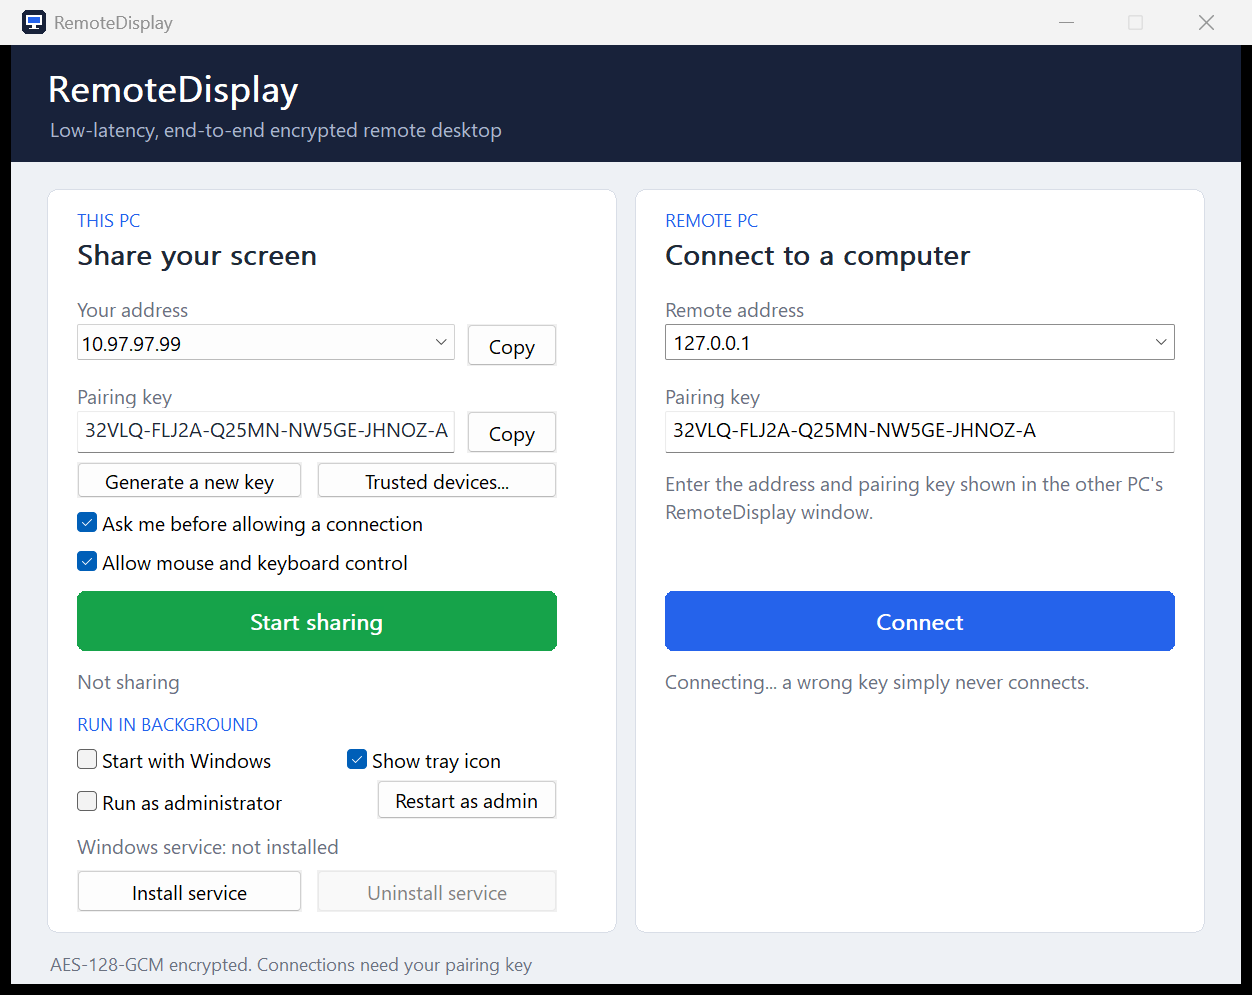
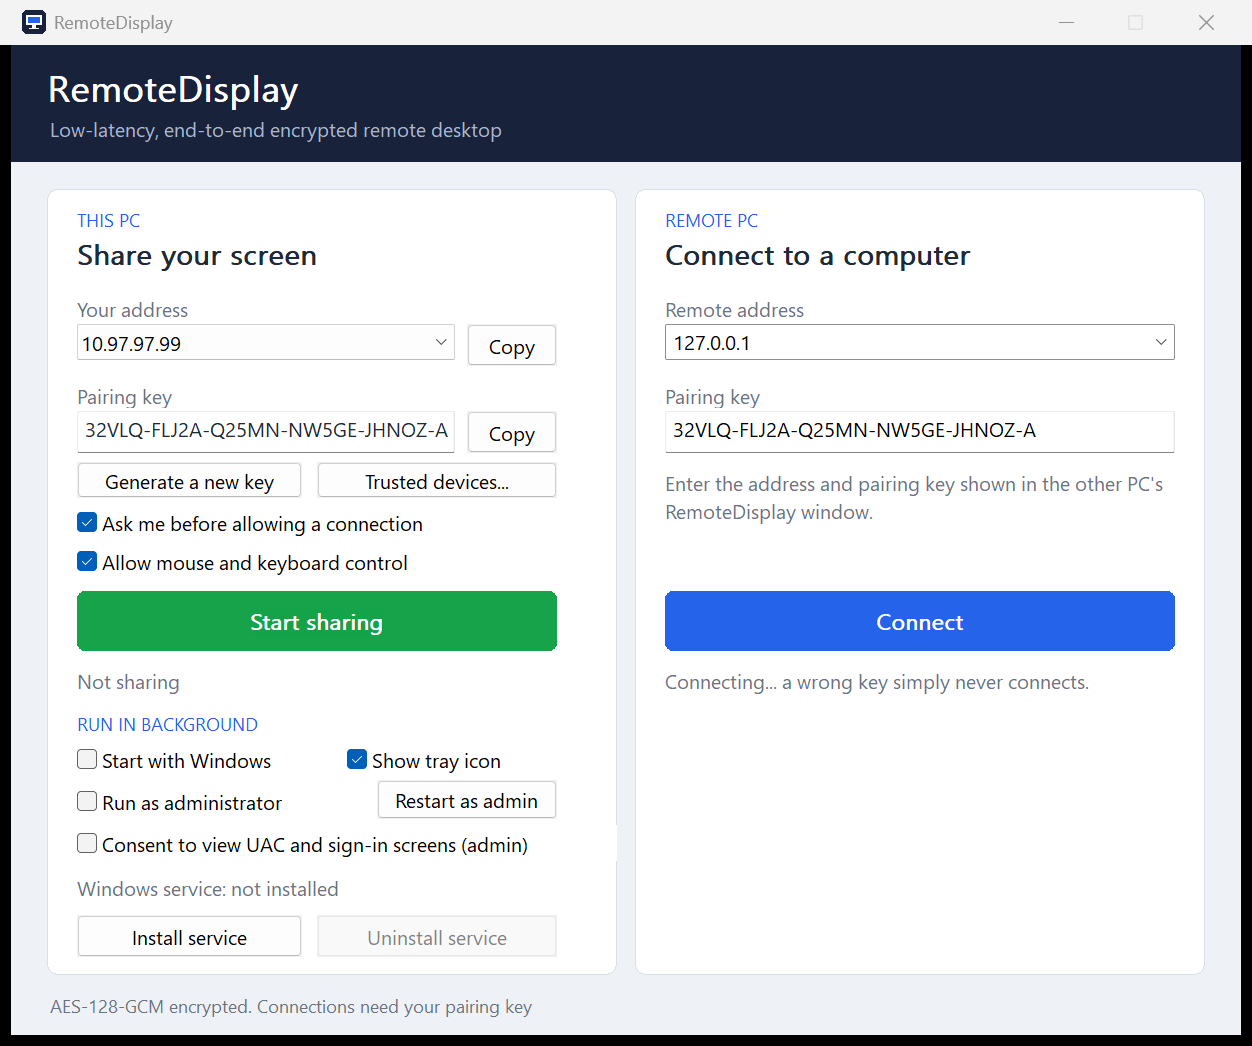
Opt-in secure-desktop consent: policy, detection and audit trail (capture not built yet)
Adds an HKLM consent flag changeable only through an administrator prompt, detection of the
Default vs Winlogon input desktop, and an append-only audit log of each switch. The worker records
secure-desktop entry/exit with the policy state. Capturing the UAC prompt and sign-in screen still
needs a SYSTEM-level helper, which is not built; the checkbox is labelled WIP to say so.
test-admin covers the policy guard, desktop name, and audit lines.

diff --git a/app/main.cpp b/app/main.cpp
@@ -15,6 +15,7 @@
 #include <vector>
 
 #include "admin.h"
+#include "secure.h"
 #include "common.h"
 #include "host.h"
 #include "service.h"
@@ -38,9 +39,9 @@ enum Ctl {
     IDC_IPS = 100, IDC_COPY_IP, IDC_KEY, IDC_COPY_KEY, IDC_NEW_KEY, IDC_APPROVE, IDC_SHARE, IDC_STATUS,
     IDC_DISCONNECT, IDC_REMOTE, IDC_REMOTE_KEY, IDC_CONNECT, IDC_MSG, IDC_HINT,
     IDC_LBL_ADDR, IDC_LBL_KEY, IDC_LBL_RADDR, IDC_LBL_RKEY, IDC_TITLE_L, IDC_TITLE_R,
-    IDC_SVC_TITLE, IDC_SVC_STATUS, IDC_SVC_BTN, IDC_SVC_HINT, IDC_CONTROL, IDC_AUTOSTART, IDC_SHOWTRAY, IDC_TRUSTED, IDC_ADMIN, IDC_ADMIN_STATE, IDC_SVC_REMOVE,
+    IDC_SVC_TITLE, IDC_SVC_STATUS, IDC_SVC_BTN, IDC_SVC_HINT, IDC_CONTROL, IDC_AUTOSTART, IDC_SHOWTRAY, IDC_TRUSTED, IDC_ADMIN, IDC_ADMIN_STATE, IDC_SVC_REMOVE, IDC_SECURE,
 };
-enum class Elev { SvcInstall, SvcUninstall, AdminOn, AdminOff, TaskOn, TaskOff };
+enum class Elev { SvcInstall, SvcUninstall, AdminOn, AdminOff, TaskOn, TaskOff, SecureOn, SecureOff };
 enum TrayCmd { IDM_OPEN = 2001, IDM_TOGGLE, IDM_DISCONNECT, IDM_EXIT };
 constexpr UINT kMsgViewerClosed = WM_APP + 10, kMsgSvcDone = WM_APP + 11, kMsgTray = WM_APP + 20,
                kMsgShow = WM_APP + 21;
@@ -124,7 +125,7 @@ public:
         app.background_ = background;
         app.autoShare_ = autoShare;
         app.dpi_ = GetDeviceCaps(GetDC(nullptr), LOGPIXELSX);
-        RECT rc = {0, 0, app.S(820), app.S(626)};
+        RECT rc = {0, 0, app.S(820), app.S(660)};
         AdjustWindowRect(&rc, WS_OVERLAPPED | WS_CAPTION | WS_SYSMENU | WS_MINIMIZEBOX, FALSE);
         HWND h = CreateWindowW(L"RemoteDisplayApp", L"RemoteDisplay",
                                WS_OVERLAPPED | WS_CAPTION | WS_SYSMENU | WS_MINIMIZEBOX | WS_CLIPCHILDREN,
@@ -207,9 +208,10 @@ private:
         Add(L"BUTTON", L"Show tray icon", BS_AUTOCHECKBOX | WS_TABSTOP, 224, 464, 140, 24, IDC_SHOWTRAY);
         Add(L"BUTTON", L"Run as administrator", BS_AUTOCHECKBOX | WS_TABSTOP, 44, 492, 190, 24, IDC_ADMIN);
         Add(L"BUTTON", L"Restart as admin", BS_PUSHBUTTON | WS_TABSTOP, 244, 490, 120, 26, IDC_ADMIN_STATE);
-        Add(L"STATIC", L"", SS_LEFT | SS_ENDELLIPSIS, 44, 524, 320, 22, IDC_SVC_STATUS);
-        Add(L"BUTTON", L"Install service", BS_PUSHBUTTON | WS_TABSTOP, 44, 550, 150, 28, IDC_SVC_BTN);
-        Add(L"BUTTON", L"Uninstall service", BS_PUSHBUTTON | WS_TABSTOP, 204, 550, 160, 28, IDC_SVC_REMOVE);
+        Add(L"STATIC", L"", SS_LEFT | SS_ENDELLIPSIS, 44, 552, 320, 22, IDC_SVC_STATUS);
+        Add(L"BUTTON", L"Install service", BS_PUSHBUTTON | WS_TABSTOP, 44, 580, 150, 28, IDC_SVC_BTN);
+        Add(L"BUTTON", L"Uninstall service", BS_PUSHBUTTON | WS_TABSTOP, 204, 580, 160, 28, IDC_SVC_REMOVE);
+        Add(L"BUTTON", L"Consent for UAC/sign-in viewing (admin, WIP)", BS_AUTOCHECKBOX | WS_TABSTOP, 44, 520, 360, 24, IDC_SECURE);
 
         // ---- right card: connect
         Add(L"STATIC", L"REMOTE PC", SS_LEFT, 436, 108, 200, 16, IDC_LBL_RADDR + 100);
@@ -242,6 +244,7 @@ private:
         adminPref_ = cfg_->AdminMode();
         CheckDlgButton(hwnd_, IDC_AUTOSTART, IsAutostartEnabled() ? BST_CHECKED : BST_UNCHECKED);
         CheckDlgButton(hwnd_, IDC_ADMIN, adminPref_ ? BST_CHECKED : BST_UNCHECKED);
+        CheckDlgButton(hwnd_, IDC_SECURE, SecureDesktopAllowed() ? BST_CHECKED : BST_UNCHECKED);
         if (IsElevated()) SetWindowTextW(hwnd_, L"RemoteDisplay (Administrator)");
         UpdateAdminUi();
         taskbarCreated_ = RegisterWindowMessageW(L"TaskbarCreated");  // Explorer restarted: re-add the icon
@@ -391,6 +394,7 @@ private:
         SetText(IDC_SVC_STATUS, L"Waiting for administrator approval...");
         EnableWindow(Ctrl(IDC_SVC_BTN), FALSE);
         EnableWindow(Ctrl(IDC_SVC_REMOVE), FALSE);
+        EnableWindow(Ctrl(IDC_SECURE), FALSE);
         svcThread_ = std::thread([this, args] {
             const int rc = RunElevated(hwnd_, args);
             PostMessage(hwnd_, kMsgSvcDone, WPARAM(rc), 0);
@@ -467,6 +471,18 @@ private:
                     CheckDlgButton(hwnd_, IDC_AUTOSTART, BST_UNCHECKED);
                     fail();
                 }
+                break;
+            case Elev::SecureOn:
+                if (ok) {
+                    Message(L"Consent recorded. Every use of the UAC / sign-in screen is written to the audit log.", kGreen);
+                } else {
+                    CheckDlgButton(hwnd_, IDC_SECURE, BST_UNCHECKED);
+                    fail();
+                }
+                break;
+            case Elev::SecureOff:
+                if (ok) Message(L"Consent withdrawn.", kMuted);
+                else { CheckDlgButton(hwnd_, IDC_SECURE, BST_CHECKED); fail(); }
                 break;
             case Elev::TaskOff:
                 if (ok) Message(L"Will no longer start with Windows.", kMuted);
@@ -563,6 +579,7 @@ private:
             const bool installed = svcState_ != SvcState::NotInstalled;
             EnableWindow(Ctrl(IDC_SVC_BTN), !installed);
             EnableWindow(Ctrl(IDC_SVC_REMOVE), installed);
+            EnableWindow(Ctrl(IDC_SECURE), !svcBusy_);
         }
     }
 
@@ -755,14 +772,14 @@ private:
         HBRUSH card = CreateSolidBrush(kCard);
         SelectObject(mem, pen);
         SelectObject(mem, card);
-        RoundRect(mem, S(24), S(96), S(404), S(592), S(14), S(14));
-        RoundRect(mem, S(416), S(96), S(796), S(592), S(14), S(14));
+        RoundRect(mem, S(24), S(96), S(404), S(620), S(14), S(14));
+        RoundRect(mem, S(416), S(96), S(796), S(620), S(14), S(14));
         DeleteObject(pen);
         DeleteObject(card);
 
         SetTextColor(mem, kMuted);
         SelectObject(mem, fontSmall_);
-        TextOutW(mem, S(26), S(604), L"AES-128-GCM encrypted. Connections need your pairing key.", 56);
+        TextOutW(mem, S(26), S(632), L"AES-128-GCM encrypted. Connections need your pairing key.", 56);
 
         BitBlt(dc, 0, 0, cr.right, cr.bottom, mem, 0, 0, SRCCOPY);
         SelectObject(mem, old);
@@ -930,6 +947,15 @@ private:
                         const bool autostart = IsDlgButtonChecked(h, IDC_AUTOSTART) == BST_CHECKED;
                         const wchar_t* verbs = on ? (autostart ? L"worker-on,task-on" : L"worker-on") : L"worker-off,task-off";
                         ElevatedAction(std::wstring(L"--admin-ctl ") + verbs + UserArg(), on ? Elev::AdminOn : Elev::AdminOff);
+                        break;
+                    }
+                    case IDC_SECURE: {
+                        // Changing the consent needs administrator rights (UAC), so a connected viewer cannot
+                        // switch it on. Declining the prompt puts the checkbox back.
+                        const bool on = IsDlgButtonChecked(h, IDC_SECURE) == BST_CHECKED;
+                        if (svcBusy_) { CheckDlgButton(h, IDC_SECURE, on ? BST_UNCHECKED : BST_CHECKED); break; }
+                        ElevatedAction(std::wstring(L"--admin-ctl ") + (on ? L"secure-on" : L"secure-off") + UserArg(),
+                                       on ? Elev::SecureOn : Elev::SecureOff);
                         break;
                     }
                     case IDC_ADMIN_STATE:

diff --git a/app/secure.h b/app/secure.h
@@ -1,0 +1,74 @@
+#pragma once
+// Secure desktop support, opt-in only.
+//
+// Windows draws the UAC consent prompt and the sign-in screen on a separate "secure desktop" (the
+// Winlogon desktop). An ordinary process cannot read it, so while it is shown the viewer sees a
+// frozen picture. This module does three things:
+//  1. the machine-wide opt-in flag (HKLM, changeable only by an administrator, so a connected viewer
+//     cannot switch it on),
+//  2. detects when the input desktop is the secure one,
+//  3. writes an audit trail of every time it happens.
+// Capturing the secure desktop itself needs a SYSTEM-level helper; see docs/ARCHITECTURE.md.
+#include <windows.h>
+
+#include <string>
+
+#include "common.h"
+#include "ipc_security.h"
+
+namespace rdapp {
+
+constexpr wchar_t kSecureValue[] = L"AllowSecureDesktop";
+
+// True only if an administrator turned the feature on for this PC.
+inline bool SecureDesktopAllowed() {
+    DWORD v = 0, size = sizeof(v);
+    return RegGetValueW(HKEY_LOCAL_MACHINE, kAdminKey, kSecureValue, RRF_RT_REG_DWORD, nullptr, &v, &size) == ERROR_SUCCESS && v != 0;
+}
+
+// Needs administrator rights (HKLM). Returns false for normal users.
+inline bool SetSecureDesktopAllowed(bool on) {
+    if (!on) {
+        const LSTATUS r = RegDeleteKeyValueW(HKEY_LOCAL_MACHINE, kAdminKey, kSecureValue);
+        return r == ERROR_SUCCESS || r == ERROR_FILE_NOT_FOUND;
+    }
+    const DWORD v = 1;
+    return RegSetKeyValueW(HKEY_LOCAL_MACHINE, kAdminKey, kSecureValue, REG_DWORD, &v, sizeof(v)) == ERROR_SUCCESS;
+}
+
+// Name of the desktop that currently receives input: "Default" for the user's desktop, "Winlogon" for
+// the UAC prompt and sign-in screen. Empty if it cannot be read (e.g. in a service or locked session).
+inline std::wstring InputDesktopName() {
+    HDESK d = OpenInputDesktop(0, FALSE, DESKTOP_READOBJECTS);
+    if (!d) return L"";
+    wchar_t name[256] = {};
+    DWORD need = 0;
+    std::wstring out;
+    if (GetUserObjectInformationW(d, UOI_NAME, name, sizeof(name), &need)) out = name;
+    CloseDesktop(d);
+    return out;
+}
+
+inline bool OnSecureDesktop() {
+    const std::wstring n = InputDesktopName();
+    return !n.empty() && _wcsicmp(n.c_str(), L"Default") != 0;
+}
+
+// Append-only audit trail: one line per event, with time, Windows user and process. Lives in
+// %ProgramData%, which normal users cannot rewrite, so a connected viewer cannot erase it.
+inline std::wstring AuditLogPath() {
+    wchar_t pd[MAX_PATH] = {};
+    GetEnvironmentVariableW(L"ProgramData", pd, MAX_PATH);
+    std::wstring dir = std::wstring(pd) + L"\\RemoteDisplay";
+    CreateDirectoryW(dir.c_str(), nullptr);
+    return dir + L"\\audit.log";
+}
+
+inline void Audit(const char* event, const std::string& detail) {
+    wchar_t user[256] = {};
+    DWORD n = DWORD(std::size(user));
+    GetUserNameW(user, &n);
+    Log(AuditLogPath(), "AUDIT %s user=%ls pid=%lu %s", event, user, GetCurrentProcessId(), detail.c_str());
+}
+
+}  // namespace rdapp

diff --git a/tests/test_admin.cpp b/tests/test_admin.cpp
@@ -93,6 +93,33 @@ int main() {
         CHECK(!TaskExists(), "the real 'RemoteDisplay' task was not touched");
     }
 
+    // ---- secure desktop: detection, opt-in guard, audit trail ----
+    {
+        const std::wstring desk = InputDesktopName();
+        wprintf(L"     input desktop: %ls\n", desk.c_str());
+        CHECK(!desk.empty(), "the input desktop name can be read");
+        if (!IsElevated() && !SecureDesktopAllowed()) {
+            CHECK(!SetSecureDesktopAllowed(true), "normal rights cannot turn secure-desktop consent on");
+            CHECK(!SecureDesktopAllowed(), "and consent is still off");
+        }
+        const std::wstring logPath = AuditLogPath();
+        DeleteFileW(logPath.c_str());
+        Audit("test-event", "marker=unit-test");
+        std::string text;
+        HANDLE f = CreateFileW(logPath.c_str(), GENERIC_READ, FILE_SHARE_READ | FILE_SHARE_WRITE, nullptr, OPEN_EXISTING, 0, nullptr);
+        if (f != INVALID_HANDLE_VALUE) {
+            char buf[2048];
+            DWORD n = 0;
+            while (ReadFile(f, buf, sizeof(buf), &n, nullptr) && n) text.append(buf, n);
+            CloseHandle(f);
+        }
+        CHECK(text.find("AUDIT test-event") != std::string::npos && text.find("marker=unit-test") != std::string::npos,
+              "an audit line is written with the event and detail");
+        CHECK(text.find("user=") != std::string::npos && text.find("pid=") != std::string::npos,
+              "audit lines record the user and process");
+        DeleteFileW(logPath.c_str());
+    }
+
     printf(g_fail ? "%d FAILED\n" : "all admin-plumbing tests passed\n", g_fail);
     return g_fail ? 1 : 0;
 }

diff --git a/app/worker.h b/app/worker.h
@@ -8,6 +8,7 @@
 #include <thread>
 
 #include "common.h"
+#include "secure.h"
 #include "host.h"
 #include "shared.h"
 
@@ -55,8 +56,16 @@ inline int RunWorker() {
         std::atomic<bool> prompting{false};
         PromptHandle promptHandle;
         int lastState = -1;
+        bool wasSecure = false;
         while (!done) {
             status.Publish(st);
+            // Opt-in secure-desktop audit: record every time the UAC prompt / sign-in screen takes over.
+            const bool secure = OnSecureDesktop();
+            if (secure != wasSecure) {
+                wasSecure = secure;
+                Audit(secure ? "secure-desktop-entered" : "secure-desktop-left",
+                      SecureDesktopAllowed() ? "policy=allowed" : "policy=not-allowed");
+            }
             if (status.KickRequested()) st.kick = true;
             if (status.RestartRequested()) {  // settings changed (key, approval, admin mode): the service relaunches us
                 Log(log, "restart requested by the app");

diff --git a/app/admin.h b/app/admin.h
@@ -21,6 +21,7 @@
 
 #include "common.h"
 #include "ipc_security.h"
+#include "secure.h"
 #include "service.h"
 
 #pragma comment(lib, "secur32.lib")
@@ -157,6 +158,8 @@ inline int AdminControl(const std::wstring& verbs, const std::wstring& user) {
         else if (v == L"worker-off") ok = SetElevateWorker(false);
         else if (v == L"task-on") ok = !user.empty() && CreateStartupTask(user, SelfPath());
         else if (v == L"task-off") ok = DeleteStartupTask();
+        else if (v == L"secure-on") { ok = SetSecureDesktopAllowed(true); Audit("secure-desktop-policy", "allowed=1"); }
+        else if (v == L"secure-off") { ok = SetSecureDesktopAllowed(false); Audit("secure-desktop-policy", "allowed=0"); }
         Log(log, "admin-ctl %ls: %s", v.c_str(), ok ? "ok" : "FAILED");
         if (!ok) rc = 20;
     }

diff --git a/README.md b/README.md
@@ -111,6 +111,18 @@ Limits: sharing starts once a user is signed in (not at the login screen), a loc
 prompt cannot be viewed yet, and if you move `RemoteDisplay.exe` you must remove and reinstall.
 Logs: `%ProgramData%\RemoteDisplay\service.log` and `%APPDATA%\RemoteDisplay\worker.log`.
 
+### Secure desktop (UAC prompt and sign-in screen): consent only, for now
+
+The **Consent for UAC/sign-in viewing (admin, WIP)** checkbox is opt-in. Turning it on or off asks
+for administrator approval, so a connected viewer cannot switch it on. Current state, honestly:
+
+- **Works:** the consent is stored machine-wide; the worker detects when the UAC prompt or sign-in
+  screen takes over the desktop; every switch is written to `%ProgramData%\RemoteDisplayudit.log`
+  with time, Windows user and process.
+- **Not built:** actually showing those screens. Capturing them needs a SYSTEM-level helper that
+  attaches to the Winlogon desktop, which is a separate piece of work and needs administrator
+  testing. Until then the viewer sees a frozen picture while a prompt is up.
+
 ## Security model
 
 - Every UDP datagram is AES-128-GCM encrypted and authenticated; replays are rejected.
